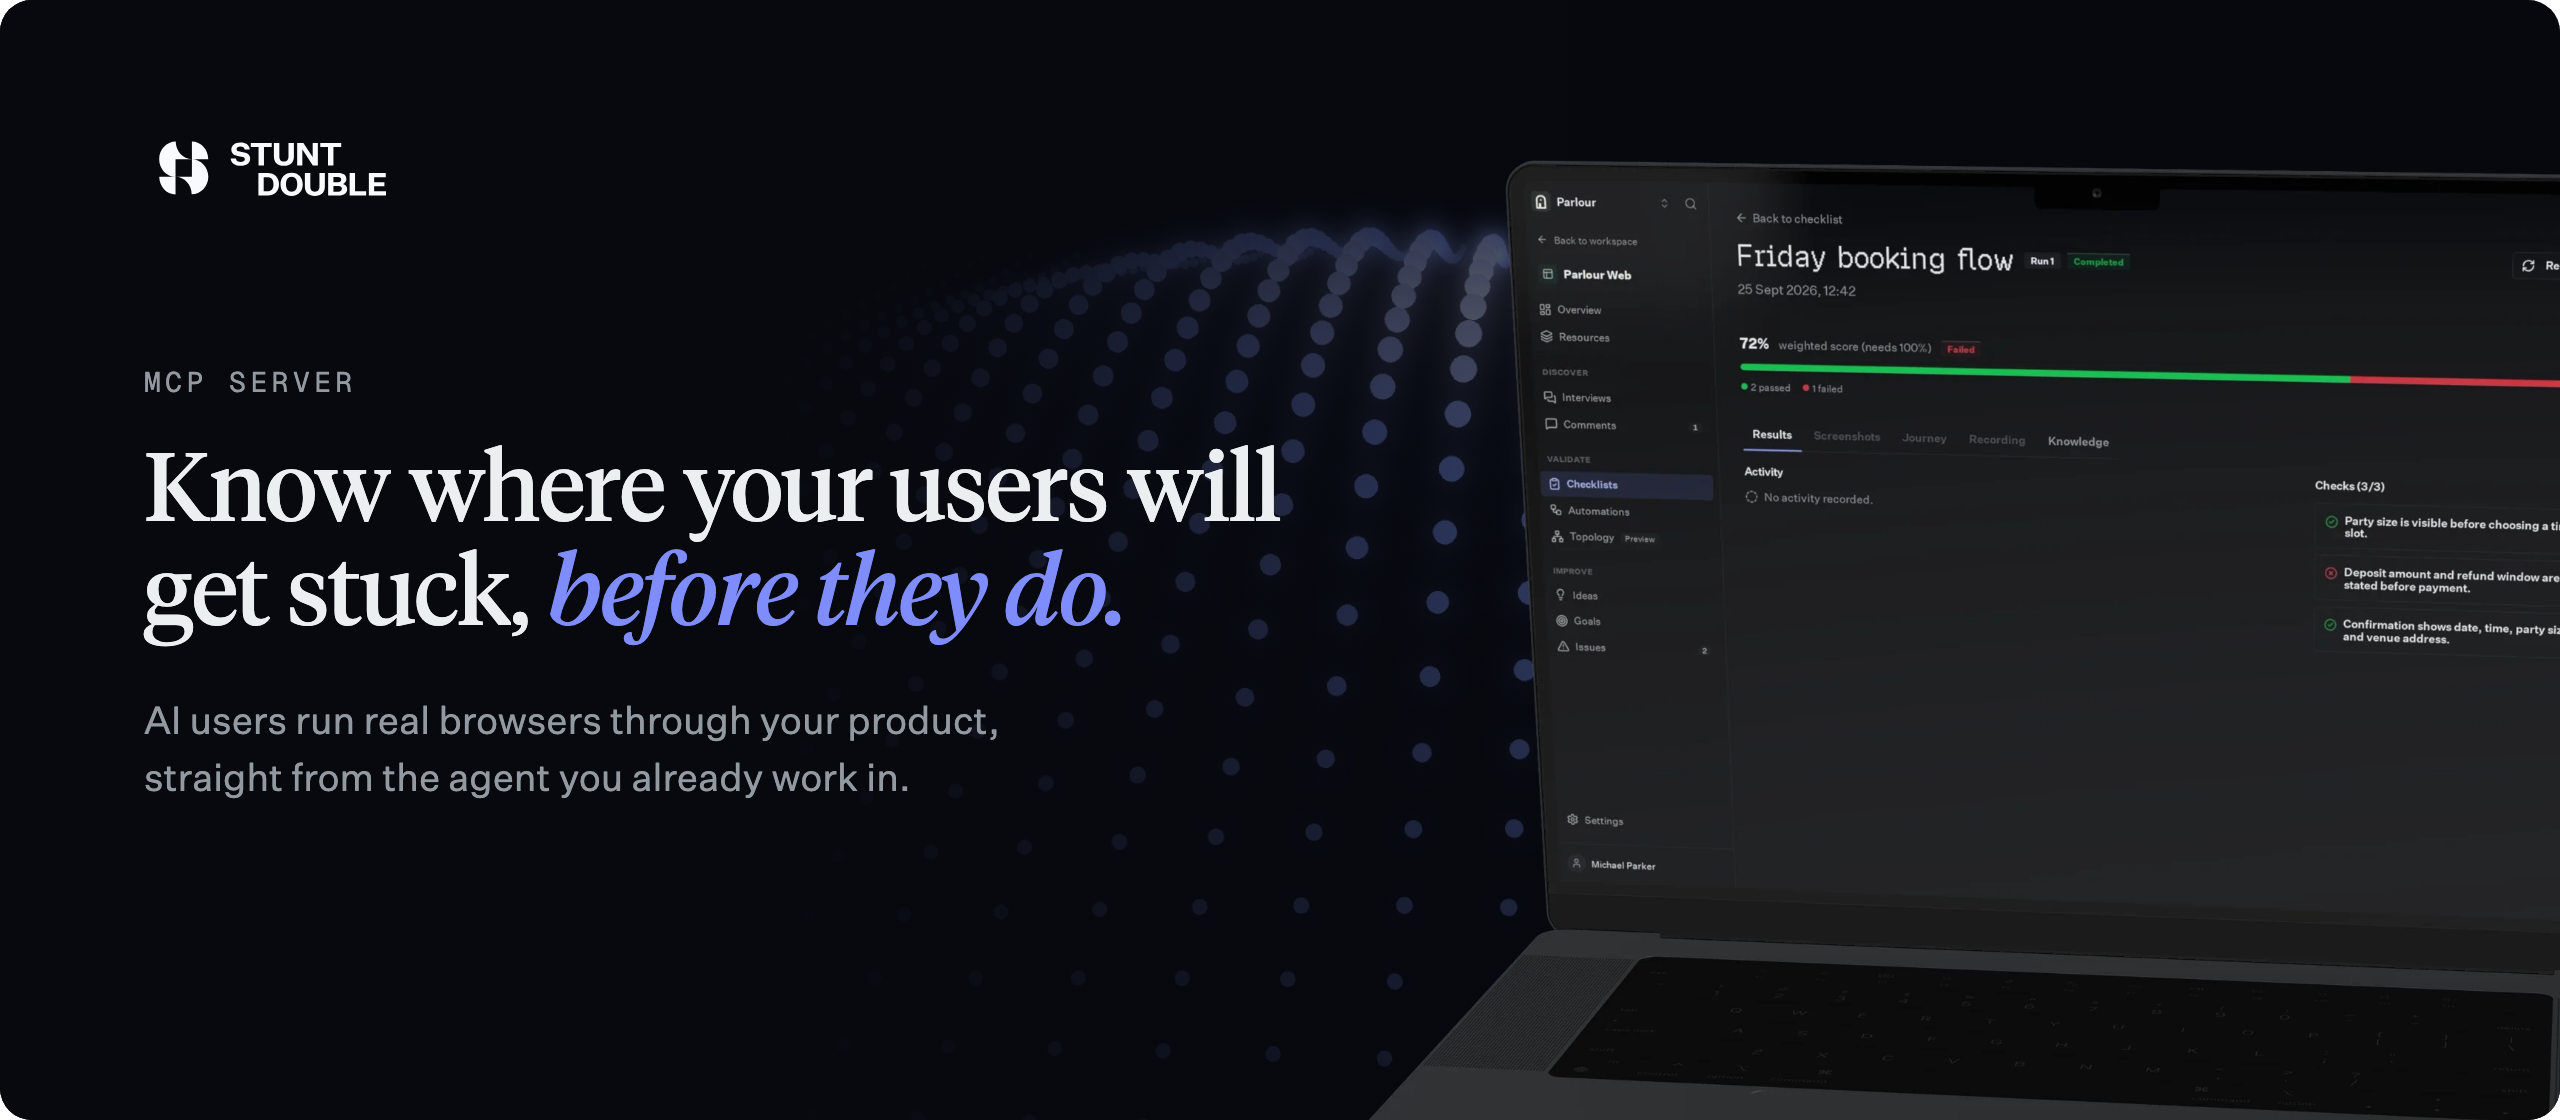
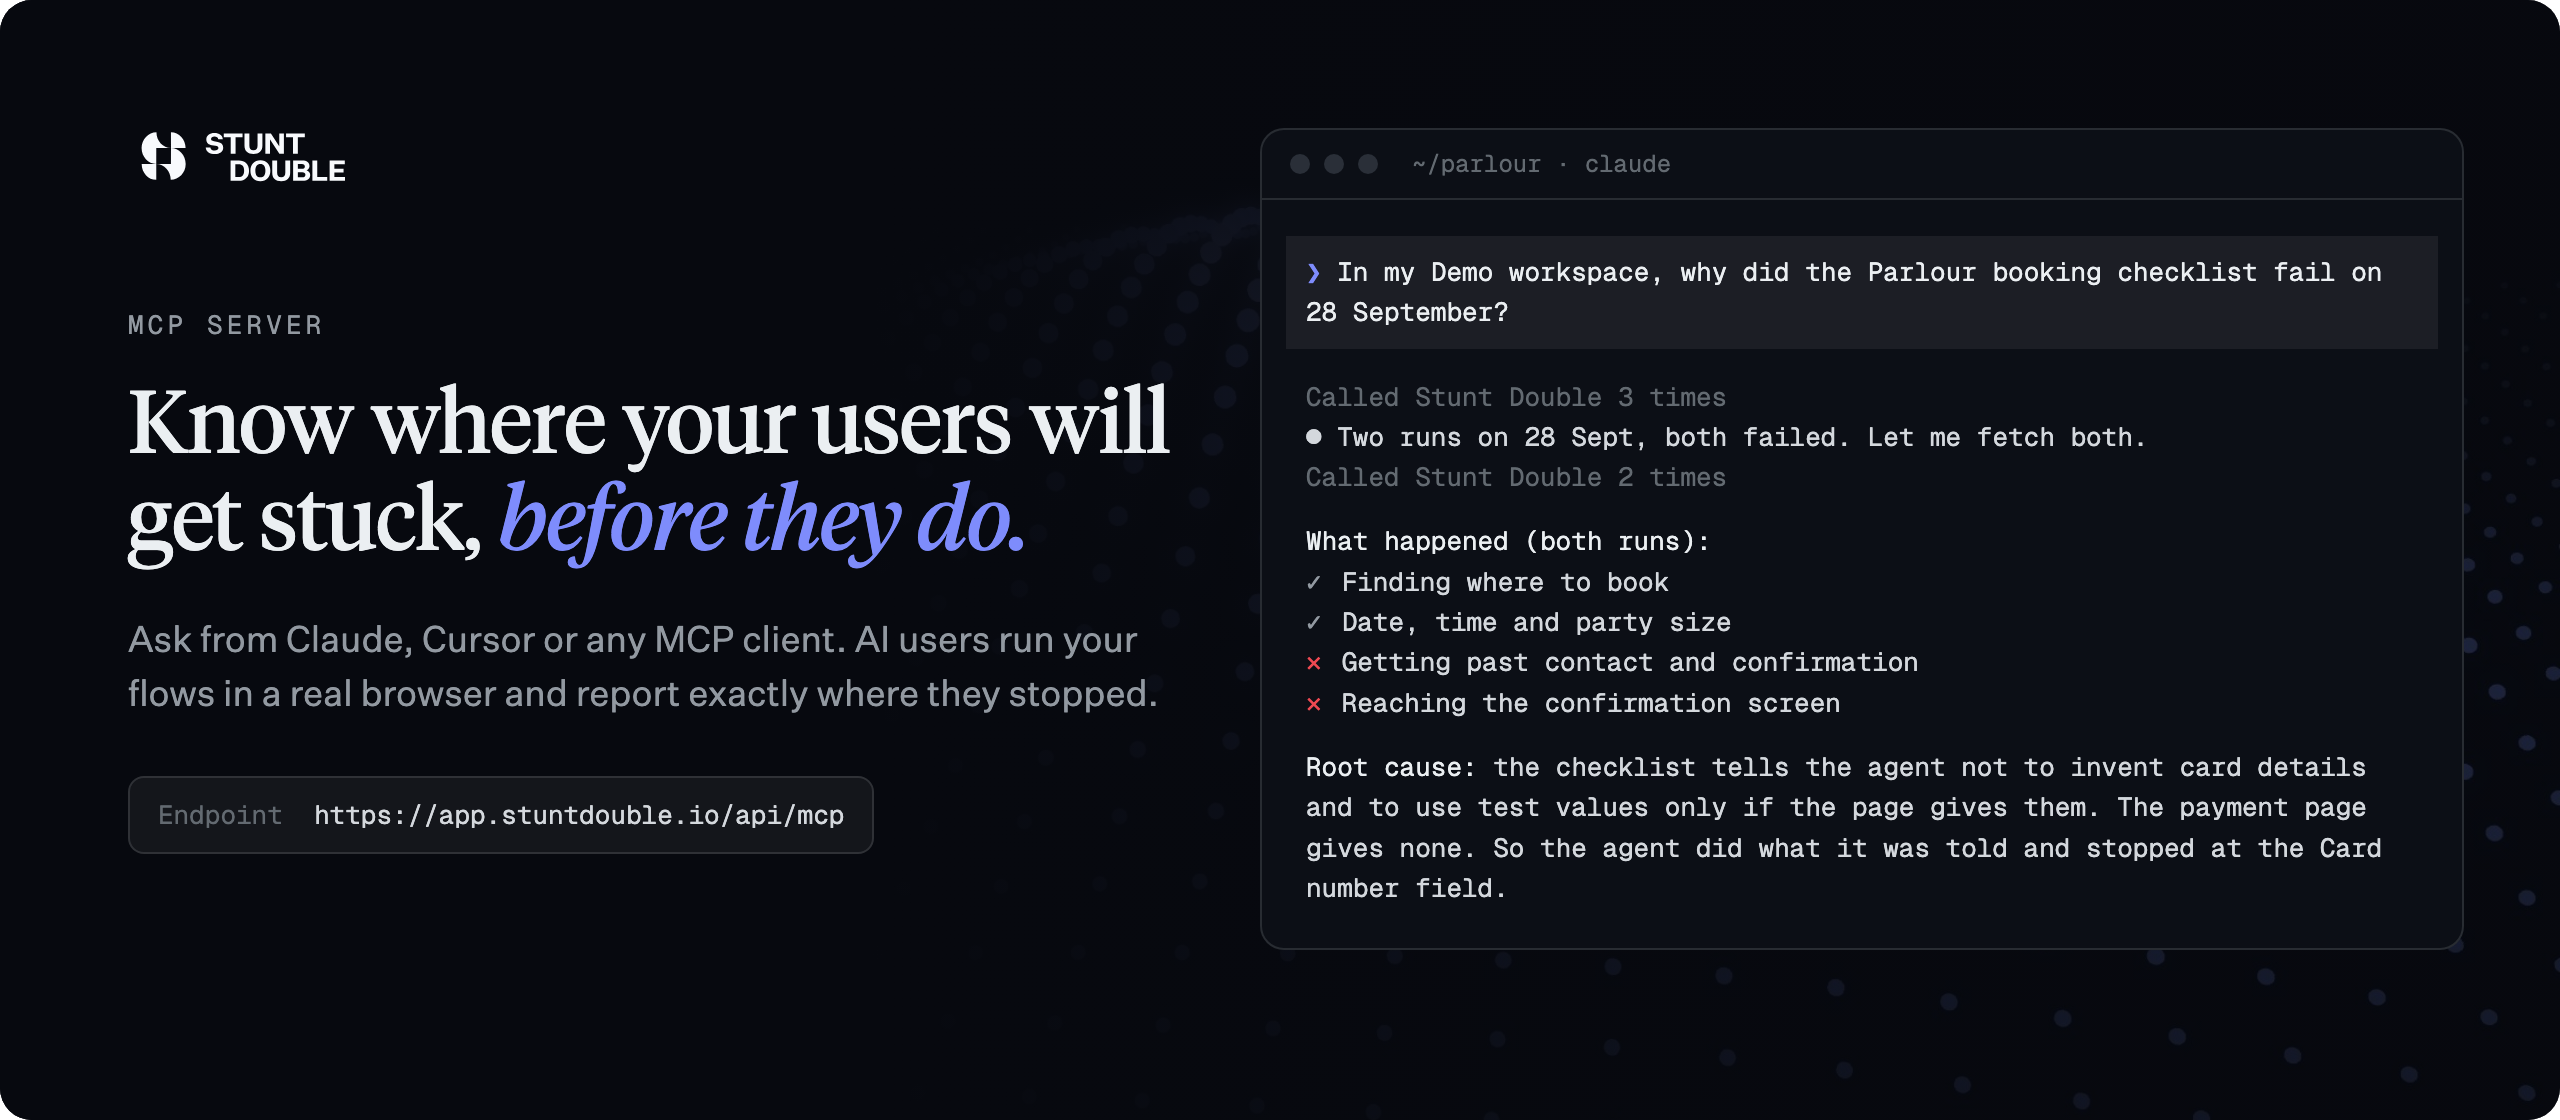
docs: re-record the demo in Claude Code, put the MCP exchange in the hero, add a README contents list

diff --git a/README.md b/README.md
@@ -1,5 +1,5 @@
 <p align="center">
-  <a href="https://stuntdouble.io"><img src="./assets/hero.png" alt="Stunt Double MCP server. Know where your users will get stuck, before they do. Beside it, a checklist run for a Friday booking flow scoring 72%, with one failed check." width="100%"></a>
+  <a href="https://stuntdouble.io"><img src="./assets/hero.png" alt="Stunt Double MCP server. Know where your users will get stuck, before they do. Beside it, Claude Code asks why the Parlour booking checklist failed and Stunt Double reports that the agent stopped at the card number field because the page gives no test card." width="100%"></a>
 </p>
 
 # Stunt Double MCP Server
@@ -8,8 +8,23 @@ Deploy AI user personas to validate user journeys at scale. Find UX friction bef
 
 [Stunt Double](https://stuntdouble.io) deploys AI agents with realistic user personas to validate user journeys at scale. Create actors, run automated workflows and checklists against any web app, and surface friction points before real users encounter them. Integrates with Claude, Linear, GitHub, and Slack.
 
+## Contents
+
+- [This repository](#this-repository)
+- [Quick Start](#quick-start): [Claude Code](#claude-code), [Claude Code plugin](#claude-code-plugin), [Skills](#skills-any-agent), [Claude](#claude-web-desktop-mobile), [ChatGPT and Codex](#chatgpt-and-codex), [Codex CLI](#codex-cli), [Gemini CLI](#gemini-cli), [VS Code](#vs-code-github-copilot), [OpenCode](#opencode), [Windsurf](#windsurf), [Other clients](#other-clients), [Cursor](#cursor)
+- [Authentication](#authentication): [What a connection can reach](#what-a-connection-can-reach)
+- [Available Tools](#available-tools): [Account](#account), [Workspaces](#workspaces), [Search](#search), [Projects](#projects), [Guidelines](#guidelines), [Actors](#actors), [Knowledge](#knowledge), [Conversations](#conversations), [Checklists](#checklists), [Workflows](#workflows), [Feedback](#feedback), [GitHub](#github), [Interviews](#interviews), [Prompts](#prompts), [Resources](#resources), [Stunt Double Index](#stunt-double-index)
+- [Example prompts](#example-prompts)
+- [Privacy Policy](#privacy-policy)
+- [Support](#support)
+- [Transport](#transport)
+- [MCP Registry](#mcp-registry)
+- [Links](#links)
+- [Verifying changes](#verifying-changes)
+- [License](#license)
+
 <p align="center">
-  <img src="./assets/demo.gif" alt="Asking Claude for the latest activity in a Stunt Double workspace, and Claude listing its checklists through the MCP server" width="100%">
+  <img src="./assets/demo.gif" alt="A Claude Code session asking why the Parlour booking checklist failed on 28 September. Claude calls Stunt Double, fetches both runs and explains that the agent stopped at the payment step because the page gives no test card." width="100%">
 </p>
 
 ## This repository

diff --git a/CHANGELOG.md b/CHANGELOG.md
@@ -8,7 +8,7 @@ The format is based on [Keep a Changelog](https://keepachangelog.com/en/1.1.0/),
 
 ### Added
 
-- `assets/hero.png` and the README header: the brand banner (midnight terrain, lockup, a real checklist run), plus the existing `assets/demo.gif` recording of the server in Claude.
+- `assets/hero.png` and the README header: the brand banner, with a real Claude Code exchange with the server beside the line. `assets/demo.gif` is re-recorded as that session in Claude Code, and the README gains a table of contents.
 - `.cursor-plugin/marketplace.json`: team marketplace entry for the single-plugin repo (same pattern as the Claude marketplace), so Cursor can install `stuntdouble` from this repository.
 - `scripts/validate-cursor-plugin.mjs`: checks the Cursor manifest, MCP URL, and frontmatter on skills, rules and agents; CI runs it alongside the JSON and OpenAI checks.
 - `.openai-plugin/plugin.json`: the ChatGPT and Codex plugin manifest (Agent Plugins format), with the directory listing, five positive and three negative review test cases, and release notes.
